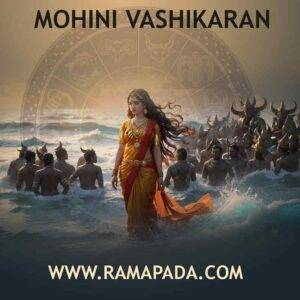
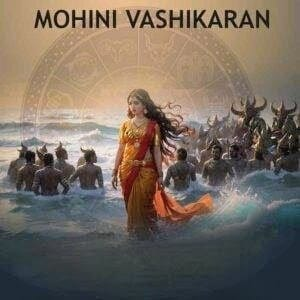
add SEO static files and update image

diff --git a/index.html b/index.html
@@ -4,6 +4,37 @@
     <meta charset="UTF-8" />
     <link rel="icon" type="image" href="/companyLogo.png" />
     <meta name="viewport" content="width=device-width, initial-scale=1.0" />
+    <meta name="description" content="Sanatan Dham Kendra – Puja services in Guwahati. Book Kamakhya Tantra Puja, Baglamukhi Puja, Mohini Vashikaran Puja, and more. Authentic Vedic rituals by experienced priests." />
+
+<meta name="keywords" content="Kamakhya puja, Baglamukhi puja, Vashikaran puja, Puja booking Guwahati, tantra puja, Sanatan Dham Kendra" />
+
+<meta name="author" content="Sanatan Dham Kendra" />
+
+<meta property="og:title" content="Sanatan Dham Kendra – Puja Services in Guwahati" />
+<meta property="og:description" content="Authentic Hindu puja services including Kamakhya, Baglamukhi, Mohini, and more." />
+<meta property="og:image" content="/your-share-image.jpg" />
+<meta property="og:url" content="https://sanatandhamkendra.in" />
+
+<script type="application/ld+json">
+{
+  "@context": "https://schema.org",
+  "@type": "LocalBusiness",
+  "name": "Sanatan Dham Kendra",
+  "url": "https://sanatandhamkendra.in",
+  "address": {
+    "@type": "PostalAddress",
+    "addressLocality": "Guwahati",
+    "addressRegion": "Assam",
+    "addressCountry": "IN"
+  },
+  "description": "Puja services in Guwahati including Kamakhya Tantra Puja, Baglamukhi Puja, Mohini Puja, and more.",
+  "telephone": "+919365551016",
+  "sameAs": [
+    "https://wa.me/919365551016"
+  ]
+}
+</script>
+
     <link href="https://fonts.googleapis.com/css2?family=Poppins:wght@400;600&family=Tiro+Devanagari+Hindi&display=swap" rel="stylesheet">
     <title>Sanatan Dham Kendra</title>
   </head>
